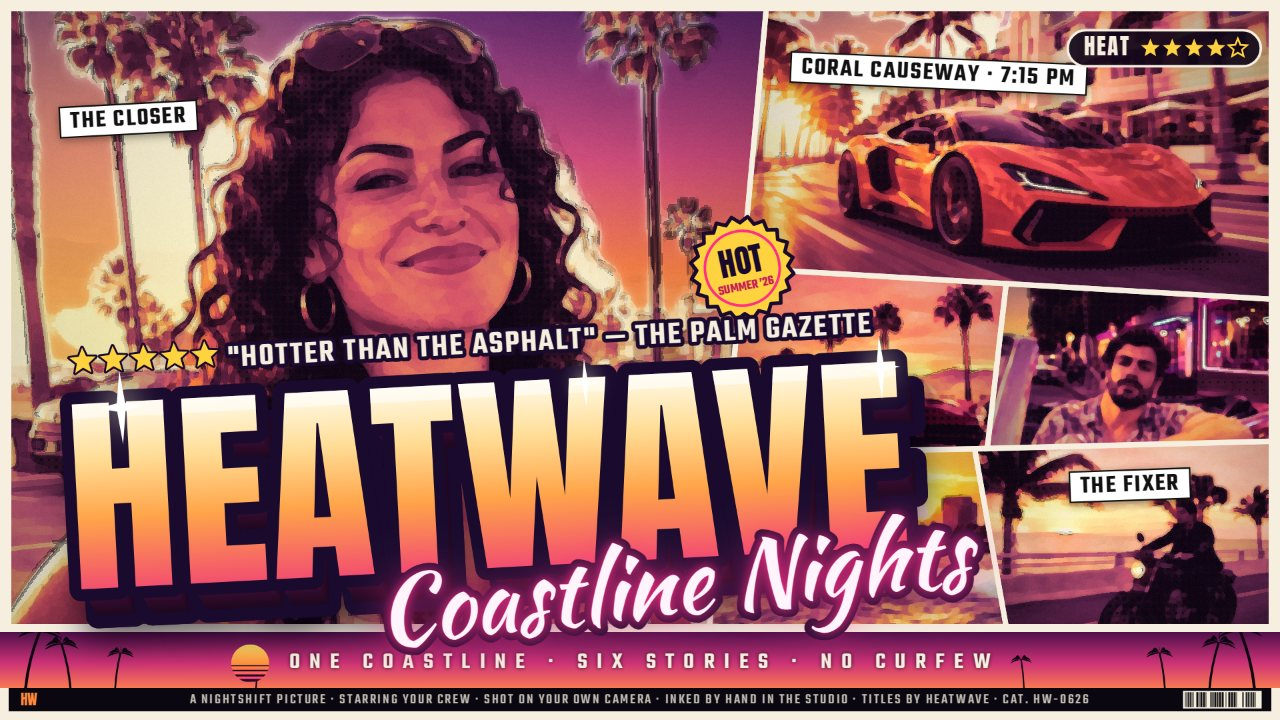
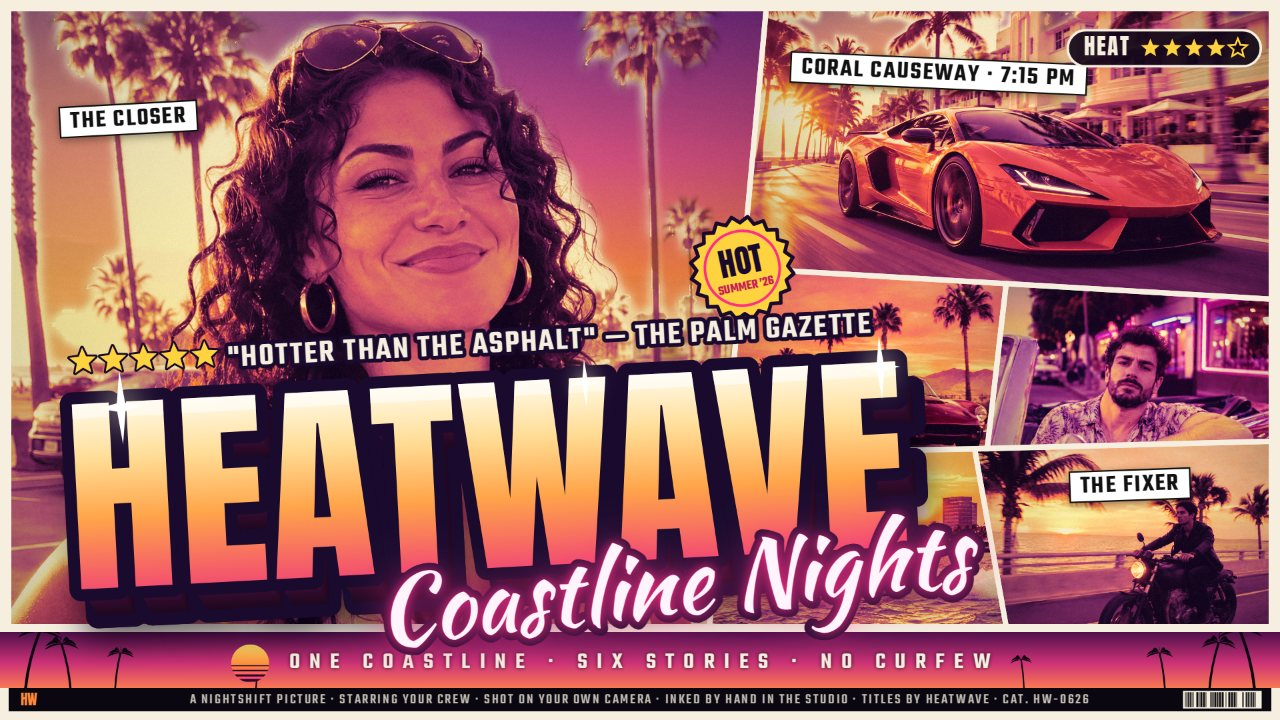
Step 1 (M5): crisp shot 1 - Poster Ink off on shot 1 (per-scene ink setting, &ink=0|<strength> override; shots 2-4 keep 0.8), and a no-ink lift that keeps shadows deep (lift fades below ~0.25, toe pushed down) for every no-ink render. A/B at 768x432 vs before and rival #1: ink 0 wins (sharp faces, n

diff --git a/app/src/dev/shot-scenes.js b/app/src/dev/shot-scenes.js
@@ -5,11 +5,11 @@ import { ensureCoverAssets, renderCover } from '../engine/render.js';
 import { pushHistory } from '../state.js';
 
 const SCENES = {
-  // Shot 1: 1920 x 1080, Key Art Slash, Sunset Strip, Poster Ink on, six distinct photos: the hero face, the
+  // Shot 1: 1920 x 1080, Key Art Slash, Sunset Strip, Poster Ink off (ink: 0; crisp at judge size), six distinct photos: the hero face, the
   // supercar in the second-largest panel, a sunset sky (under the title's end), a second face in the free middle-right
   // panel, the speedboat and the motorbike.
   'cover-keyart': {
-    layoutId: 'keyArtSlash', gradeId: 'sunsetStrip', size: [1920, 1080],
+    layoutId: 'keyArtSlash', gradeId: 'sunsetStrip', size: [1920, 1080], ink: 0,
     caption: { title: 'HEATWAVE', subtitle: 'Coastline Nights', tagline: 'ONE COASTLINE · SIX STORIES · NO CURFEW' },
     photos: ['woman-palms', 'supercar-boulevard', 'coupe-desert', 'man-neon', 'speedboat', 'moto-causeway'],
     panels: [
@@ -63,6 +63,12 @@ const SCENES = {
   },
 };
 
+// A scene's ink number as the studio's ink state: 0 is off (the slider keeps its default 0.8), anything else is on.
+function inkSetting(strength) {
+  const s = Math.min(1, Math.max(0, strength));
+  return s > 0 ? { on: true, strength: s } : { on: false, strength: 0.8 };
+}
+
 export async function runShotScene(name, studio) {
   const scene = SCENES[name] ?? SCENES['cover-keyart'];
   const { state } = studio;
@@ -70,7 +76,8 @@ export async function runShotScene(name, studio) {
   pushHistory(state); // setting up the scene is an edit like any other: Undo is live in the editor shot
   state.layoutId = scene.layoutId;
   state.gradeId = scene.gradeId;
-  state.ink = { on: true, strength: 0.8 };
+  // Poster Ink: each scene sets its own strength (0 = off; 0.8 when the scene says nothing).
+  state.ink = inkSetting(scene.ink ?? 0.8);
   // Scenes without a quote or tags keep the studio's defaults (the same words the engine falls back to).
   state.caption = { ...state.caption, ...scene.caption };
   if (scene.dressing) state.dressing = { ...state.dressing, ...scene.dressing };
@@ -79,6 +86,8 @@ export async function runShotScene(name, studio) {
   const q = new URLSearchParams(location.search);
   if (q.get('size')) { const [w, h] = q.get('size').split('x').map(Number); state.size = { w, h }; }
   if (q.get('grade')) state.gradeId = q.get('grade');
+  // &ink=0 turns Poster Ink off, &ink=<strength> (0..1) sets it, for A/B renders.
+  if (q.has('ink')) state.ink = inkSetting(Number(q.get('ink')) || 0);
   // Sky glow: on unless the scene or &glow=0 turns it off (for A/B renders).
   state.skyGlow = q.has('glow') ? q.get('glow') !== '0' : scene.skyGlow !== false;
   state.panels = scene.panels.map((p) => ({ ...p }));

diff --git a/app/src/engine/render.js b/app/src/engine/render.js
@@ -3,7 +3,7 @@
 
 import { layoutFor } from './layouts.js';
 import { applyGradeToPanel, gradeColorAt, autoLevelsBeforeGrade } from './grades.js';
-import { posterInk, smoothForInk, grainAndVignette, liftToMeanLuminance, skinMaskBeforeGrade } from './ink.js';
+import { posterInk, smoothForInk, grainAndVignette, liftKeepShadows, skinMaskBeforeGrade } from './ink.js';
 import { skyMaskBeforeGrade, paintSkyGlow, hasSkyPalette } from './sky-glow.js';
 import { drawTitleBlock, drawHalftoneSun, drawStickerBadge } from './lettering.js';
 import { drawKeyArtTitle, drawHeatPill, drawPanelTag, drawSeal, drawPalmBand, drawBilling, DRESSING_DEFAULTS } from './dressing.js';
@@ -149,7 +149,7 @@ function panelArt(photo, slot, pw, ph, state, W, i, fast) {
   applyGradeToPanel(data, state.gradeId, { keepHighlights: ink ? 0.7 : 0 });
   if (sky) paintSkyGlow(data, sky, state.gradeId);
   if (ink) posterInk(data, lumHalf, { coverW: W, strength: state.ink.strength, paper: gradeColorAt(state.gradeId, 0.5), seed: 17 + i * 101, skin });
-  else liftToMeanLuminance(data, 0.44);
+  else liftKeepShadows(data, 0.44);
   grainAndVignette(data, 911 + i * 37);
   cctx.putImageData(data, 0, 0);
   if (!fast) {

diff --git a/app/src/engine/ink.js b/app/src/engine/ink.js
@@ -219,6 +219,23 @@ export function liftToMeanLuminance(imageData, target) {
   return target;
 }
 
+// The no-ink lift: mid-tones and highlights get the gamma lift toward the target mean, but the lift fades out below
+// about 0.25 and the toe is pushed down, so shadows stay deep (plum to near-black) instead of turning milky.
+export function liftKeepShadows(imageData, target) {
+  const d = imageData.data;
+  const mean = meanLuminance(imageData);
+  const gamma = mean < target && mean > 0.01 ? Math.log(target) / Math.log(mean) : 1;
+  const smooth = (a, b, x) => { const t = Math.min(1, Math.max(0, (x - a) / (b - a))); return t * t * (3 - 2 * t); };
+  const lut = new Uint8ClampedArray(256);
+  for (let v = 0; v < 256; v++) {
+    const x = v / 255;
+    let y = x + (Math.pow(x, gamma) - x) * smooth(0.1, 0.4, x);
+    y *= 0.72 + 0.28 * smooth(0, 0.32, y);
+    lut[v] = Math.round(255 * y);
+  }
+  for (let i = 0; i < d.length; i += 4) { d[i] = lut[d[i]]; d[i + 1] = lut[d[i + 1]]; d[i + 2] = lut[d[i + 2]]; }
+}
+
 export function meanLuminance(imageData) {
   const d = imageData.data;
   let sum = 0;

diff --git a/main.ts b/main.ts
@@ -5,8 +5,8 @@
 // This program hands the app in: it copies app/ and screenshots/ to /output and writes /output/dossier.json with the
 // vendored make.fun library. The logic below is the kit starter's, unchanged and deterministic (same input bytes,
 // same dossier bytes).
-// Screenshots (M4): 1-cover-1920.jpg (Key Art Slash, Sunset Strip, painterly Poster Ink, Sky glow on, six distinct
-// photos, title over the art), 2-editor.jpg (the editor with Key Art Slash, the Poster extras toggles and tag fields,
+// Screenshots (M5): 1-cover-1920.jpg (Key Art Slash, Sunset Strip, no Poster Ink: crisp photo grade with deep
+// shadows, Sky glow on, six distinct photos, title over the art), 2-editor.jpg (the editor with Key Art Slash, the Poster extras toggles and tag fields,
 // undo/redo), 3-cover-1080x1350.jpg (Key Art Slash, Neon Night, six photos), 4-cover-1080.jpg (Key Art Slash from
 // ONE photo in five crops, Golden Hour); exports 1080x1080, 1080x1350, 1920x1080 PNG.
 //
